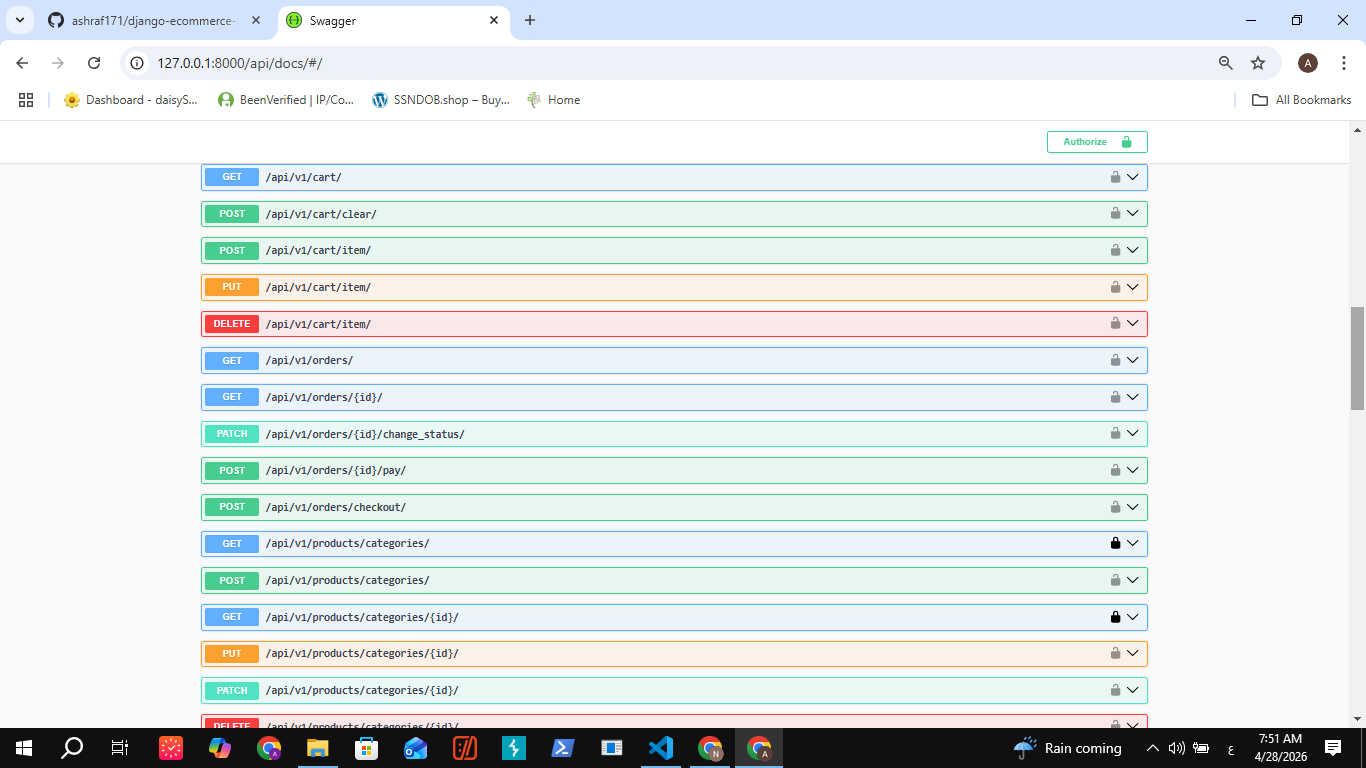
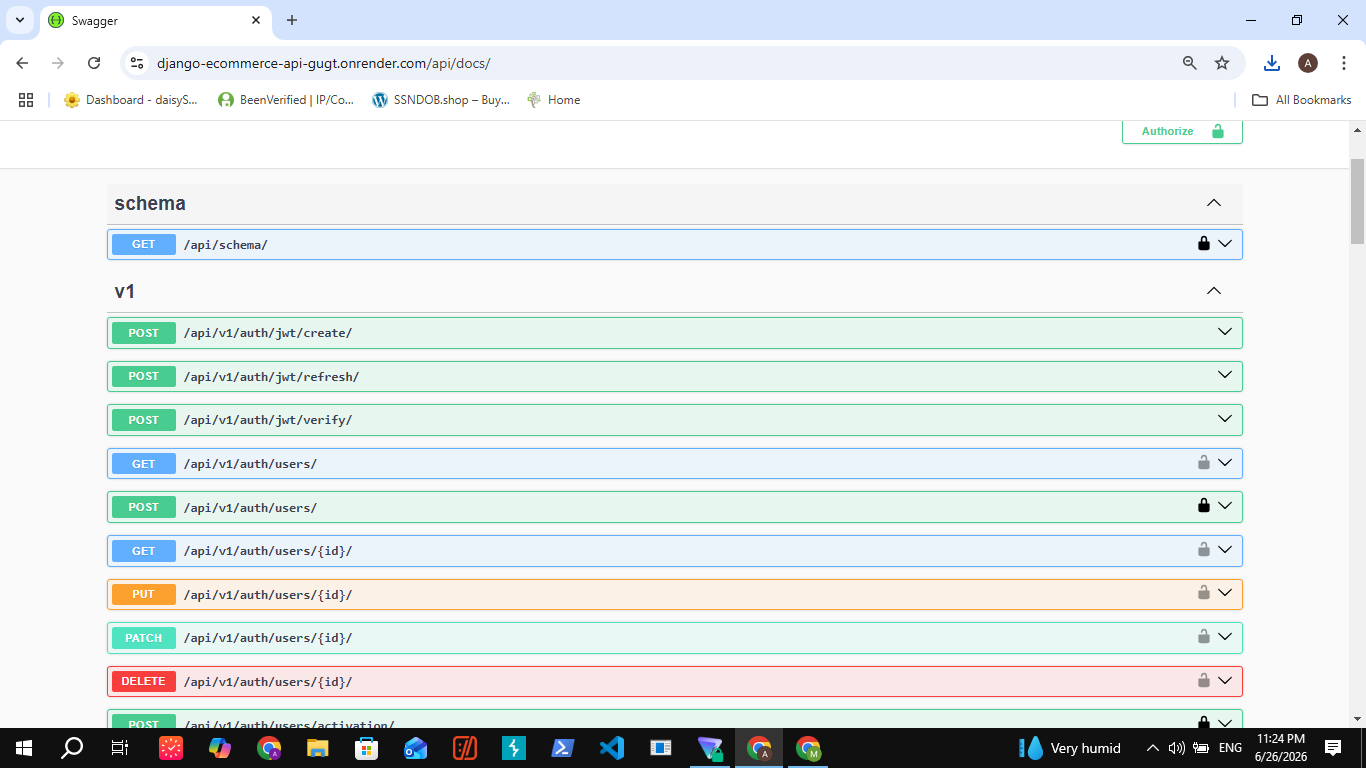
Update README documentation details

diff --git a/cart/services.py b/cart/services.py
@@ -76,8 +76,10 @@ def checkout(user):
 
         
         order_id = order.id
+
+        
         transaction.on_commit(
-        lambda: fake_order_confirmation_task.delay(order_id)
+            lambda: fake_order_confirmation_task.delay(order_id)
         )
 
         return order

diff --git a/README.md b/README.md
@@ -1,4 +1,4 @@
-# E-commerce REST API
+# Django E-commerce REST API
 
 ![Python](https://img.shields.io/badge/Python-3.12-blue)
 ![Django](https://img.shields.io/badge/Django-REST%20Framework-green)
@@ -38,9 +38,10 @@ The project covers product management, cart and checkout workflows, order proces
 * [Tests](#tests)
 * [CI](#ci)
 * [Project Structure](#project-structure)
+* [Screenshots](#screenshots)
 * [Known Notes](#known-notes)
 * [Future Improvements](#future-improvements)
-
+* [Author](#author)
 ---
 
 ## Features
@@ -382,7 +383,7 @@ docker compose exec web python manage.py createsuperuser
 ### 6. Check Containers
 
 ```bash
-docker ps
+docker compose ps
 ```
 
 Expected containers:
@@ -409,7 +410,7 @@ PONG
 ### 8. Check Celery
 
 ```bash
-docker compose logs celery
+docker compose logs celery --tail=50
 ```
 
 Expected worker status:
@@ -591,12 +592,12 @@ django-ecommerce-api/
 
 ---
 
+```md
 ## Screenshots
 
-Swagger documentation screenshot:
+Swagger documentation:
 
-```text
-screenshots/swagger.png
+![Swagger Documentation](screenshots/swagger.png)
 ```
 
 ---
@@ -615,15 +616,12 @@ screenshots/swagger.png
 
 ## Future Improvements
 
-* Add real email provider integration for order confirmations
-* Add Celery Beat for scheduled tasks
-* Improve production static and media file handling
-* Add structured logging
-* Add real payment provider integration
-* Add more tests for authentication and profile endpoints
-* Improve production Redis configuration
-* Add test coverage reporting
-* Add object storage for media files
+- Improve production static/media file handling
+- Add structured logging
+- Add real payment provider integration
+- Add more tests for authentication and profile endpoints
+- Improve category slug handling
+- Add monitoring for background tasks
 
 ---
 
